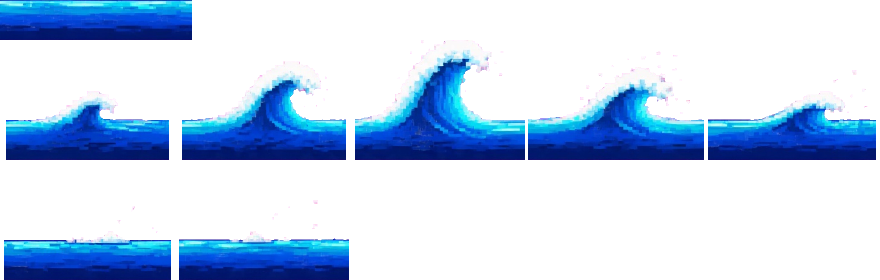
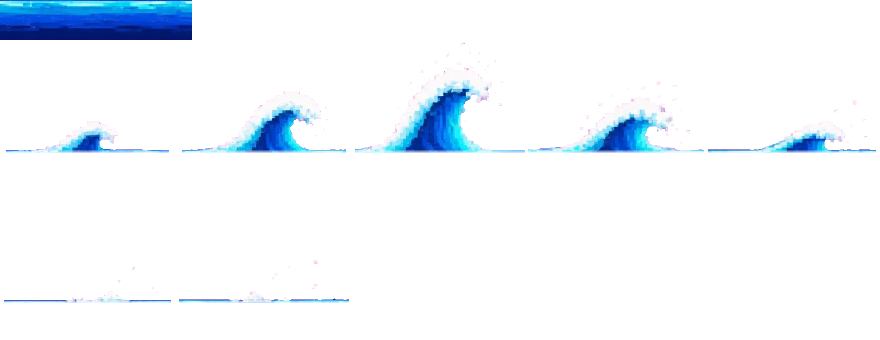
Revisao final: onda sem bloco escuro, sem teletransporte, crista inteira; selecao ao vivo escalada; aurora sem alocar
- mare: quadros da onda so com a crista (a agua e sempre a faixa calma, sem
  bloco mais escuro andando); posicao da onda/faixa guardada no tick (troca de
  sentido vira no lugar); altura do quadro cabe a maior crista (nao corta reto)
- selecao AO VIVO (480x270): torcida e aurora escalam pro tamanho do palco;
  palco do preview enxerga o clima (aurora aparece); pessoa sempre inteira na
  faixa da ficha
- aurora: repintura sem alocar (ImageData/buffer/tabela reaproveitados),
  10.4ms -> 1.9ms por repintura
- cache v55-revisao nos arquivos alterados

Claude-Session: https://claude.ai/code/session_01SiaquMaGUrkfDxfxtSpwxQ

Changed region(s): [[0.0, 0.1714, 1.0, 0.5714], [0.0, 0.8286, 0.3989, 1.0], [0.0, 0.0, 0.2455, 0.1429]]

diff --git a/js/engine/weather.js b/js/engine/weather.js
@@ -331,6 +331,9 @@ class Weather {
     if (fade <= 0) return;
     const LW = 240, LH = 80, SCALE = 4;
     ctx.save();
+    /* tudo abaixo e desenhado em 960x540; o preview da selecao (480x270) escala */
+    const k = W / 960;
+    if (k !== 1) ctx.scale(k, k);
     /* 1) noite no alto do ceu */
     if (!this._auroraNight || this._auroraNight.ctx !== ctx) {
       const gr = ctx.createLinearGradient(0, 0, 0, 300);
@@ -341,7 +344,7 @@ class Weather {
     }
     ctx.globalAlpha = fade;
     ctx.fillStyle = this._auroraNight.gr;
-    ctx.fillRect(0, 0, W, 300);
+    ctx.fillRect(0, 0, 960, 300);
     /* 2) cortinas em baixa resolucao */
     if (!this._auroraCv && typeof document !== 'undefined' && document.createElement) {
       const cv = document.createElement('canvas');
@@ -366,12 +369,12 @@ class Weather {
     }
     /* 3) estrelas (drops da aurora vivem em coordenadas do chao) */
     ctx.globalCompositeOperation = 'source-over';
-    const GY = (this.game.stage && this.game.stage.groundY) || 458;
     for (const d of this.drops) {
       const tw = reduced ? 0.8 : 0.5 + 0.5 * Math.abs(Math.sin((this.t + d.s * 240) * 0.03));
       ctx.globalAlpha = tw * fade;
       ctx.fillStyle = d.s > 0.5 ? '#d8fff5' : '#e6d9ff';
-      const x = Math.round(d.x / 2) * 2, y = Math.round((d.y + GY) / 2) * 2;
+      /* drops vivem em coordenadas do chao do jogo (458) e x em unidades de W */
+      const x = Math.round(d.x / k / 2) * 2, y = Math.round((d.y + 458) / 2) * 2;
       if (y > 300) continue;
       const sz = d.s > 0.82 ? 4 : 2;
       ctx.fillRect(x, y, sz, sz);
@@ -382,55 +385,71 @@ class Weather {
     }
     ctx.restore();
   }
-  /* pinta as cortinas no canvas pequeno (pixel a pixel, soma de luz) */
+  /* pinta as cortinas no canvas pequeno (pixel a pixel, soma de luz).
+     Sem alocar nada por repintura: buffer, ImageData e tabela de curva sao
+     criados 1x; cores interpoladas como numeros soltos (roda a cada 2 ticks). */
   _paintAurora(cv, t, n) {
     const LW = cv.width, LH = cv.height;
     const x2 = cv.getContext('2d');
     if (!this._auroraBuf || this._auroraBuf.length !== LW * LH * 3) this._auroraBuf = new Float32Array(LW * LH * 3);
+    if (!this._auroraImg || this._auroraImg.width !== LW || this._auroraImg.height !== LH) this._auroraImg = x2.createImageData(LW, LH);
+    if (!Weather._AUR) {
+      /* f^1.6 tabelado (65 passos) + cortinas + paletas planas [r,g,b x topo/meio/borda] */
+      const pow = new Float32Array(65);
+      for (let i = 0; i <= 64; i++) pow[i] = Math.pow(i / 64, 1.6);
+      Weather._AUR = {
+        pow,
+        curt: [
+          { base: 40, len: 32, ph: 0.0, sp: 1.0, hue: 0 },
+          { base: 31, len: 24, ph: 2.1, sp: 0.8, hue: 1 },
+          { base: 49, len: 38, ph: 4.2, sp: 1.2, hue: 0 },
+          { base: 24, len: 18, ph: 5.7, sp: 0.7, hue: 2 },
+        ],
+        /* roxo -> teal -> verde vivo */
+        pal: [
+          [120, 60, 210, 40, 200, 170, 110, 255, 150],
+          [90, 70, 220, 40, 170, 230, 130, 240, 255],
+          [170, 60, 200, 120, 90, 230, 220, 150, 255],
+        ],
+      };
+    }
+    const AU = Weather._AUR, pow = AU.pow;
     const buf = this._auroraBuf;
     buf.fill(0);
-    const CURT = [
-      { base: 40, len: 32, ph: 0.0, sp: 1.0, hue: 0 },
-      { base: 31, len: 24, ph: 2.1, sp: 0.8, hue: 1 },
-      { base: 49, len: 38, ph: 4.2, sp: 1.2, hue: 0 },
-      { base: 24, len: 18, ph: 5.7, sp: 0.7, hue: 2 },
-    ];
-    /* [topo, meio, borda] por tom: roxo -> teal -> verde vivo */
-    const PAL = [
-      [[120, 60, 210], [40, 200, 170], [110, 255, 150]],
-      [[90, 70, 220], [40, 170, 230], [130, 240, 255]],
-      [[170, 60, 200], [120, 90, 230], [220, 150, 255]],
-    ];
-    const lerp = (a, b, f) => a + (b - a) * f;
-    for (let ci = 0; ci < Math.min(n, CURT.length); ci++) {
-      const c = CURT[ci];
-      const pal = PAL[c.hue];
+    const m = Math.min(n, AU.curt.length);
+    for (let ci = 0; ci < m; ci++) {
+      const c = AU.curt[ci];
+      const P = AU.pal[c.hue];
       for (let x = 0; x < LW; x++) {
         const yb = c.base + Math.sin(x * 0.045 + t * 0.018 * c.sp + c.ph) * 6 + Math.sin(x * 0.11 - t * 0.011 + c.ph * 2) * 3;
         const ray = 0.5 + 0.5 * Math.sin(x * 0.55 + c.ph * 3 + t * 0.04 * c.sp) * Math.sin(x * 0.13 + c.ph + t * 0.01);
-        const colA = 0.25 + 0.75 * Math.max(0, ray);
+        const colA = 0.25 + 0.75 * (ray > 0 ? ray : 0);
         const yt = yb - c.len * (0.5 + 0.5 * colA);
+        const span = Math.max(1, yb - yt);
         const y0 = Math.max(0, Math.floor(yt)), y1 = Math.min(LH - 1, Math.floor(yb));
         for (let y = y0; y <= y1; y++) {
-          const f = (y - yt) / Math.max(1, yb - yt);
-          let a = colA * Math.pow(Math.max(0, f), 1.6);
+          const f = (y - yt) / span;
+          const fc = f <= 0 ? 0 : f >= 1 ? 1 : f;
+          let a = colA * pow[(fc * 64 + 0.5) | 0];
           a = Math.round(a * 4) / 4; /* degraus: cara de pixel art */
           if (a <= 0) continue;
-          const col = f < 0.6 ? pal[0].map((v, k) => lerp(v, pal[1][k], f / 0.6)) : pal[1].map((v, k) => lerp(v, pal[2][k], (f - 0.6) / 0.4));
-          const edge = y === y1 ? 1.35 : 1;
+          let r, gg, bb;
+          if (fc < 0.6) { const u = fc / 0.6; r = P[0] + (P[3] - P[0]) * u; gg = P[1] + (P[4] - P[1]) * u; bb = P[2] + (P[5] - P[2]) * u; }
+          else { const u = (fc - 0.6) / 0.4; r = P[3] + (P[6] - P[3]) * u; gg = P[4] + (P[7] - P[4]) * u; bb = P[5] + (P[8] - P[5]) * u; }
+          const w = a * (y === y1 ? 1.35 : 1) * 0.55;
           const i = (y * LW + x) * 3;
-          buf[i] += col[0] * a * edge * 0.55;
-          buf[i + 1] += col[1] * a * edge * 0.55;
-          buf[i + 2] += col[2] * a * edge * 0.55;
+          buf[i] += r * w;
+          buf[i + 1] += gg * w;
+          buf[i + 2] += bb * w;
         }
       }
     }
-    const img = x2.createImageData(LW, LH);
+    const img = this._auroraImg, d = img.data;
     for (let p = 0, q = 0; p < buf.length; p += 3, q += 4) {
-      img.data[q] = Math.min(255, buf[p]);
-      img.data[q + 1] = Math.min(255, buf[p + 1]);
-      img.data[q + 2] = Math.min(255, buf[p + 2]);
-      img.data[q + 3] = 255;
+      d[q] = buf[p] > 255 ? 255 : buf[p];
+      d[q + 1] = buf[p + 1] > 255 ? 255 : buf[p + 1];
+      d[q + 2] = buf[p + 2] > 255 ? 255 : buf[p + 2];
+      d[q + 3] = 255;
     }
     x2.putImageData(img, 0, 0);
   }

diff --git a/js/engine/mechanics.js b/js/engine/mechanics.js
@@ -5,7 +5,7 @@
    ============================================================ */
 /* layout de assets/fx/mare.png — gerado por tools/build_mare_atlas.py (rodar de novo
    se trocar as imagens da onda; o script imprime estes valores) */
-const MARE_ATLAS = { fw: 176, fh: 120, waterH: 40, calm: [0, 0, 192, 40], waveFrames: [[0, 40], [176, 40], [352, 40], [528, 40], [704, 40], [0, 160], [176, 160]] };
+const MARE_ATLAS = { fw: 176, fh: 150, waterH: 40, calm: [0, 0, 192, 40], waveFrames: [[0, 40], [176, 40], [352, 40], [528, 40], [704, 40], [0, 190], [176, 190]] };
 
 const MECHS = {
   overheat: {
@@ -237,6 +237,9 @@ const MECHS = {
   tide: {
     init(g) {
       this.wave = 0; this.dir = 1;
+      /* posicao da onda e da faixa guardadas no estado e avancadas no tick:
+         quando o sentido troca a onda vira no lugar, sem teletransportar */
+      this.waveX = -MARE_ATLAS.fw; this.phase = 0;
       /* palco COM peixe = maré alta CONSTANTE (sempre alta, sem religar) */
       const fauna = (typeof stageFauna === 'function' && g && g.stage && g.stage.def) ? stageFauna(g.stage.def) : (g && g.stage && g.stage.def && g.stage.def.fauna) || [];
       this.permaTide = fauna.indexOf('fish') >= 0;
@@ -252,8 +255,15 @@ const MECHS = {
       }
     },
     tick(g) {
-      if (this.permaTide) { this.wave = 130; g.pushX = this.dir * 1.25; return; }
-      if (this.wave > 0) { this.wave--; g.pushX = this.dir * 1.25; }
+      const dir = this.dir || 1;
+      const W = g.W || 960, fw = MARE_ATLAS.fw, cw = MARE_ATLAS.calm[2];
+      this.phase = (((this.phase || 0) + dir * 0.8) % cw + cw) % cw;
+      if (!Number.isFinite(this.waveX)) this.waveX = -fw;
+      this.waveX += dir * 2.2;
+      if (dir > 0 && this.waveX > W + fw) this.waveX = -fw;
+      if (dir < 0 && this.waveX < -fw * 2) this.waveX = W;
+      if (this.permaTide) { this.wave = 130; g.pushX = dir * 1.25; return; }
+      if (this.wave > 0) { this.wave--; g.pushX = dir * 1.25; }
     },
     draw(ctx, g, t) {
       if (this.wave <= 0) return;
@@ -271,23 +281,22 @@ const MECHS = {
         const [cx, cy, cw, ch] = A.calm;
         const dir = this.dir || 1;
         const bob = g.reduced ? 0 : Math.round(Math.sin(t * 0.06) * 1.5);
-        const ox = (((t * dir * 0.8) % cw) + cw) % cw;
+        const ox = this.phase || 0;
         for (let x = -cw + ox; x < g.W; x += cw) {
           ctx.drawImage(sheet, cx, cy, cw, ch, Math.round(x), TOP + bob, cw, ch);
         }
         /* a onda: anima os quadros em ~7.5 fps enquanto atravessa a tela */
         const n = A.waveFrames.length;
         const [fx, fy] = A.waveFrames[Math.floor(t / 8) % n];
-        const span = g.W + A.fw * 2;
-        const pos = ((t * 2.2) % span) - A.fw;
+        const pos = Math.round(Number.isFinite(this.waveX) ? this.waveX : -A.fw);
         const wy = TOP + bob - (A.fh - A.waterH);
         if (dir > 0) {
-          ctx.drawImage(sheet, fx, fy, A.fw, A.fh, Math.round(pos), wy, A.fw, A.fh);
+          ctx.drawImage(sheet, fx, fy, A.fw, A.fh, pos, wy, A.fw, A.fh);
         } else {
           ctx.save();
-          ctx.translate(g.W, 0);
-          ctx.scale(-1, 1); /* espelha: a crista olha pro lado que a agua empurra */
-          ctx.drawImage(sheet, fx, fy, A.fw, A.fh, Math.round(pos), wy, A.fw, A.fh);
+          ctx.translate(pos + A.fw, 0);
+          ctx.scale(-1, 1); /* espelha no lugar: a crista olha pro lado que a agua empurra */
+          ctx.drawImage(sheet, fx, fy, A.fw, A.fh, 0, wy, A.fw, A.fh);
           ctx.restore();
         }
         /* reflexo leve da faixa (espelhada e achatada) somando luz na agua */

diff --git a/js/engine/stage.js b/js/engine/stage.js
@@ -327,7 +327,7 @@ class StageRenderer {
     this.rainSheet.src = 'assets/fx/rain-streaks.png?v=v36-amb1';
     /* ondas da maré alta em sprite real (tools/build_mare_atlas.py) */
     this.waveSheet = new Image();
-    this.waveSheet.src = 'assets/fx/mare.png?v=v54-ambiente';
+    this.waveSheet.src = 'assets/fx/mare.png?v=v55-revisao';
     const specs = this.def.layers || [];
     for (const spec of specs) {
       const img = new Image();
@@ -486,24 +486,27 @@ class StageRenderer {
     this.crowdSheet = new Image();
     this.crowdSheet.src = 'assets/fauna/torcida.png?v=v47-maresprites';
     this.crowdHype = 0;
-    const rows = (t && Array.isArray(t.rows) && t.rows.length) ? t.rows : [{ y: (this.groundY || 458) - 150, scale: 0.3 }];
+    const rows = (t && Array.isArray(t.rows) && t.rows.length) ? t.rows : [{ y: 308, scale: 0.3 }];
+    /* as fichas sao escritas em 960x540 (chao 458); o preview AO VIVO da selecao
+       roda em 480x270: escala tudo pro tamanho real do palco */
+    const kx = (this.W || 960) / 960, ky = (this.groundY || 458) / 458;
     this.crowd = rows.map((r, ri) => {
-      const scale = Math.min(0.6, r.scale || 0.3);
+      const scale = Math.min(0.6, r.scale || 0.3) * ky;
       const pw = (1280 / 25) * scale;
-      const x0 = r.x0 == null ? 0 : r.x0;
-      const x1 = r.x1 == null ? this.W : r.x1;
-      const step = pw * (r.gap || 0.9);
+      const x0 = (r.x0 == null ? 0 : r.x0) * kx;
+      const x1 = r.x1 == null ? this.W : r.x1 * kx;
+      const step = Math.max(1, pw * (r.gap || 0.9));
       const people = [];
       let prev = -1;
       let h = (ri + 1) * 2654435761 >>> 0;
-      for (let x = x0, k = 0; x + pw * 0.5 <= x1; x += step, k++) {
+      for (let x = x0, k = 0; x + pw <= x1 + 0.5; x += step, k++) { /* pessoa inteira dentro da faixa */
         h = (h * 1664525 + 1013904223) >>> 0;
         let who = h % 25;
         if (who === prev) who = (who + 7) % 25; /* nunca a mesma pessoa lado a lado */
         prev = who;
         people.push({ who, x: Math.round(x), ph: (h >>> 8) % 628 / 100, speed: 0.8 + ((h >>> 16) % 60) / 100 });
       }
-      return { y: r.y, scale, people };
+      return { y: r.y * ky, scale, people };
     });
   }
   drawTorcida(ctx) {

diff --git a/index.html b/index.html
@@ -541,9 +541,9 @@
   <script src="js/engine/projectile.js?v=v47-maresprites"></script>
   <script src="js/engine/fighter.js?v=v47-maresprites"></script>
   <script src="js/engine/vfx.js?v=v47-maresprites"></script>
-  <script src="js/engine/weather.js?v=v54-ambiente"></script>
-  <script src="js/engine/mechanics.js?v=v54-ambiente"></script>
-  <script src="js/engine/stage.js?v=v54-ambiente"></script>
+  <script src="js/engine/weather.js?v=v55-revisao"></script>
+  <script src="js/engine/mechanics.js?v=v55-revisao"></script>
+  <script src="js/engine/stage.js?v=v55-revisao"></script>
   <script src="js/engine/ai.js?v=v47-maresprites"></script>
   <script src="js/engine/game.js?v=v47-maresprites"></script>
   <script src="js/vendor/peerjs.min.js"></script>
@@ -551,7 +551,7 @@
   <script src="js/net/online.js?v=v47-maresprites"></script>
   <script src="js/ui/hud.js?v=v47-maresprites"></script>
   <script src="js/data/roster-portraits.js?v=v47-maresprites"></script>
-  <script src="js/ui/ui.js?v=v47-maresprites"></script>
+  <script src="js/ui/ui.js?v=v55-revisao"></script>
   <script src="js/ui/account.js?v=v47-maresprites"></script>
   <script src="js/main.js?v=v54-ambiente"></script>
   <script src="js/net/tournament.js?v=v47-maresprites"></script>

diff --git a/js/main.js b/js/main.js
@@ -18,7 +18,7 @@ function buildPreloadUrls() {
     (s.layers || []).forEach((l) => urls.add(String(l.src) + (String(l.src).indexOf('?') >= 0 ? '' : '?v=v36-amb1')));
   });
   urls.add('assets/fx/rain-streaks.png?v=v36-amb1');
-  urls.add('assets/fx/mare.png?v=v54-ambiente');
+  urls.add('assets/fx/mare.png?v=v55-revisao');
   urls.add('assets/fauna/torcida.png?v=v47-maresprites');
   urls.add('assets/weather/petals.png?v=v36-balance13');
   urls.add('assets/weather/neon.png?v=v36-balance13');

diff --git a/js/ui/ui.js b/js/ui/ui.js
@@ -543,6 +543,8 @@ const UI = {
       };
       stage.game = stub;
       weather = new Weather(stub, def);
+      stub.weather = weather; /* o palco desenha o ceu do clima (aurora) atras de tudo */
+      stub.stage = stage;
       weather.roll();
       this._selBgStage = def.id;
       if (tag) {

diff --git a/tools/build_mare_atlas.py b/tools/build_mare_atlas.py
@@ -11,8 +11,9 @@ alinhado pela linha da superfície.
 
 Saída:
   assets/fx/mare.png — linha 0: faixa de água calma tileável (CALM_W x WATER_H,
-                       bordas casadas); linhas 1..: quadros da onda (FW x FH,
-                       superfície em y = FH - WATER_H).
+                       bordas casadas); linhas 1..: quadros da onda, SÓ a crista
+                       (FW x fh, superfície em y = fh - WATER_H; fh cabe a maior
+                       crista inteira). A água é sempre a faixa calma.
   Imprime o layout (MARE_ATLAS) que js/engine/mechanics.js usa.
 
 Uso: python3 tools/build_mare_atlas.py
@@ -28,7 +29,6 @@ SRC = ROOT / 'Pitoco-pet/mare-alta-nova-sprites-recortar'
 OUT = ROOT / 'assets/fx/mare.png'
 
 WATER_H = 40      # espessura da água na tela (px)
-FH = 120          # altura de cada quadro da onda (crista + água)
 FW = 176          # largura de cada quadro da onda
 CALM_W = 192      # largura do tile de água calma
 INSET = 8         # margem pra dentro do painel (some a divisória e a borda clara)
@@ -80,18 +80,33 @@ def scaled(rgba, s):
 
 
 def main():
-    frames = []
+    # 1a passada: escala cada quadro pra água ficar com WATER_H e mede a crista
+    scaled_frames = []
     for (sh, row, col) in WAVE_SEQ:
         p = load_panel(sh, row, col)
         top, bot = water_band(p)
-        s = WATER_H / (bot - top)
-        im = scaled(p[:bot], s)  # corta abaixo do fundo da água
+        im = scaled(p[:bot], WATER_H / (bot - top))  # corta abaixo do fundo da água
         surf = im.height - WATER_H
-        canvas = Image.new('RGBA', (FW, FH), (0, 0, 0, 0))
-        # centraliza na largura, superfície em FH - WATER_H (crista que passar do topo é cortada)
-        canvas.alpha_composite(im.crop((max(0, (im.width - FW) // 2), max(0, surf - (FH - WATER_H)),
-                                        max(0, (im.width - FW) // 2) + min(FW, im.width), im.height)),
-                               (max(0, (FW - im.width) // 2), max(0, (FH - WATER_H) - surf)))
+        alpha = np.asarray(im)[:, :, 3] > 0
+        crest = surf - int(np.where(alpha.any(axis=1))[0].min())
+        scaled_frames.append((im, surf, crest))
+    # altura do quadro: a maior crista inteira + a faixa de água (nada cortado reto)
+    fh = max(c for _, _, c in scaled_frames) + 2 + WATER_H
+    frames = []
+    for im, surf, _ in scaled_frames:
+        a = np.asarray(im).copy()
+        # SÓ a crista: a água do quadro (outro painel, outro tom) sumia em cima da
+        # faixa calma e virava um "bloco" mais escuro andando. Some abaixo da
+        # superfície com rampa de 3px pra crista assentar na água.
+        for k in range(3):
+            if surf + k < a.shape[0]:
+                a[surf + k, :, 3] = (a[surf + k, :, 3] * (1 - (k + 1) / 4)).astype(np.uint8)
+        a[surf + 3:, :, 3] = 0
+        im = Image.fromarray(a, 'RGBA')
+        canvas = Image.new('RGBA', (FW, fh), (0, 0, 0, 0))
+        x_src = max(0, (im.width - FW) // 2)
+        canvas.alpha_composite(im.crop((x_src, 0, x_src + min(FW, im.width), im.height)),
+                               (max(0, (FW - im.width) // 2), (fh - WATER_H) - surf))
         frames.append(canvas)
 
     # água calma tileável
@@ -110,17 +125,17 @@ def main():
     per_row = 5
     rows = (len(frames) + per_row - 1) // per_row
     W = max(CALM_W, per_row * FW)
-    atlas = Image.new('RGBA', (W, WATER_H + rows * FH), (0, 0, 0, 0))
+    atlas = Image.new('RGBA', (W, WATER_H + rows * fh), (0, 0, 0, 0))
     atlas.alpha_composite(calm, (0, 0))
     pos = []
     for i, f in enumerate(frames):
-        x, y = (i % per_row) * FW, WATER_H + (i // per_row) * FH
+        x, y = (i % per_row) * FW, WATER_H + (i // per_row) * fh
         atlas.alpha_composite(f, (x, y))
         pos.append([x, y])
     OUT.parent.mkdir(parents=True, exist_ok=True)
     atlas.save(OUT, optimize=True)
 
-    layout = {'fw': FW, 'fh': FH, 'waterH': WATER_H, 'calm': [0, 0, CALM_W, WATER_H], 'waveFrames': pos}
+    layout = {'fw': FW, 'fh': fh, 'waterH': WATER_H, 'calm': [0, 0, CALM_W, WATER_H], 'waveFrames': pos}
     a = np.asarray(atlas)
     leak = int((((np.abs(a[:, :, :3].astype(int) - np.array([249, 28, 140])).sum(axis=2) < 60) & (a[:, :, 3] > 200))).sum())
     print(f'atlas {atlas.size} -> {OUT.relative_to(ROOT)}  vazamento magenta: {leak} px')
